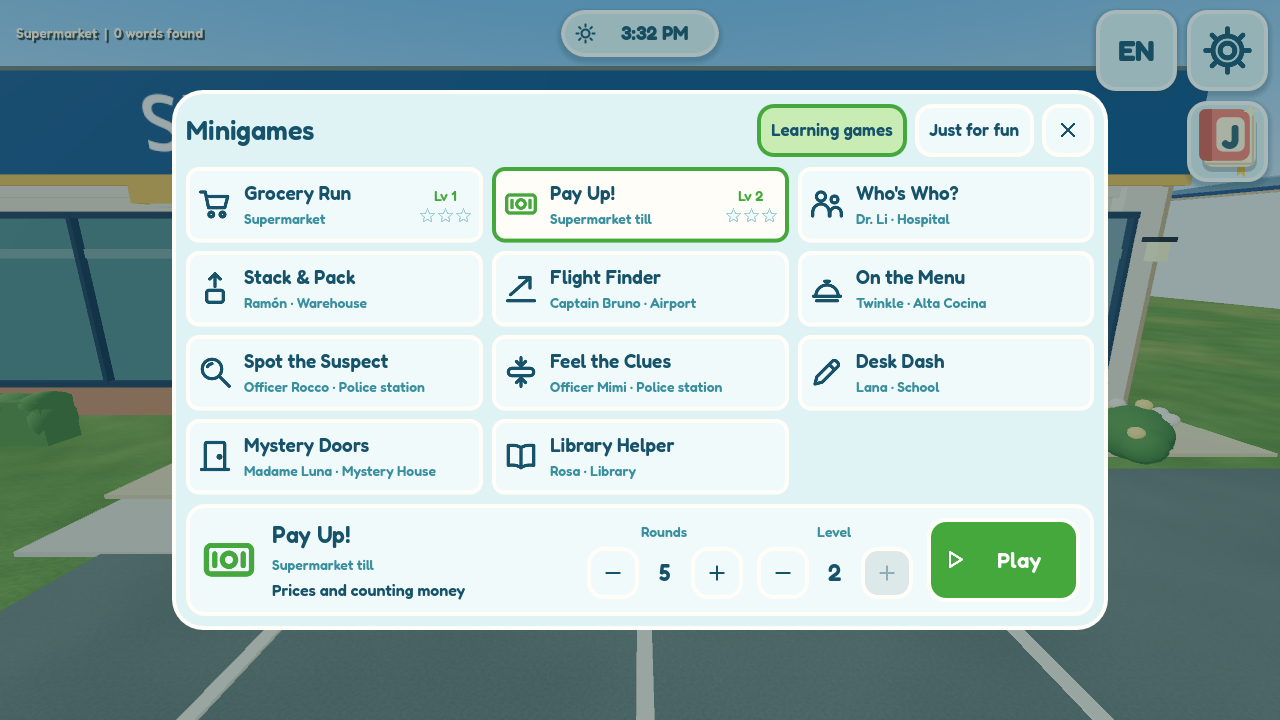
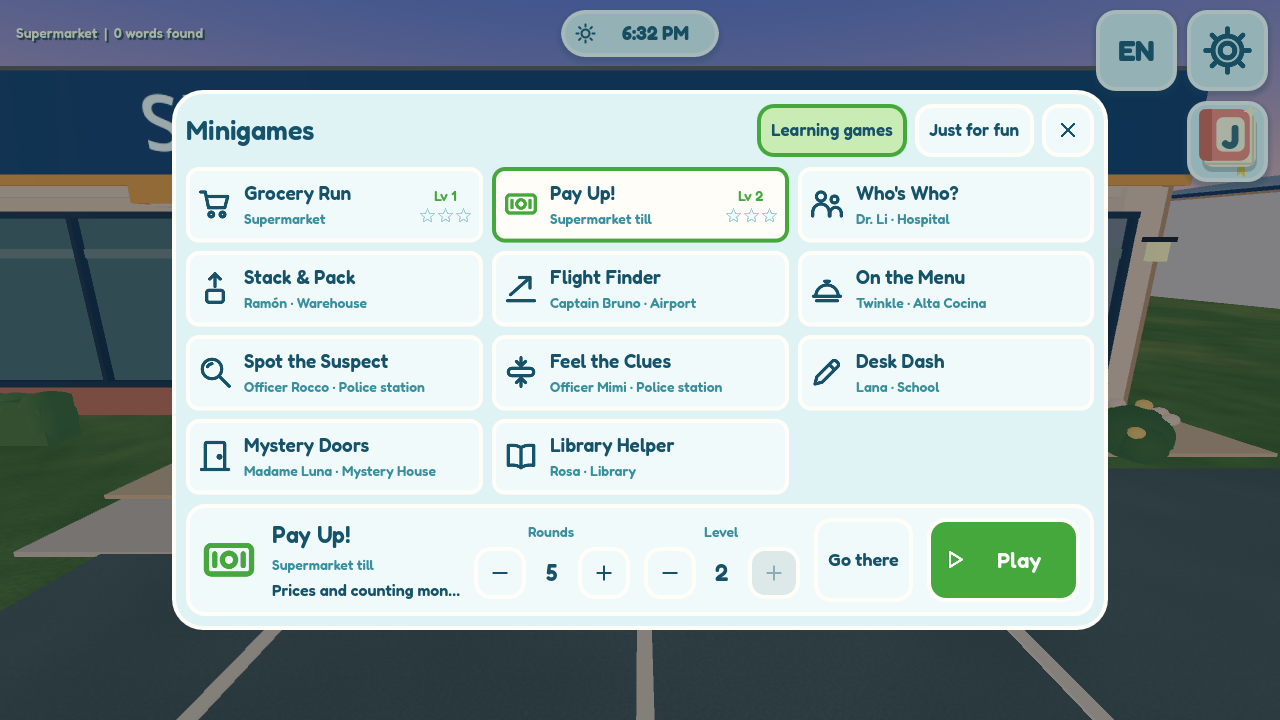
Minigame progression: verification after merging main; picker view with Go there

diff --git a/BonAdventure/docs/guides/FINAL_VERIFICATION.md b/BonAdventure/docs/guides/FINAL_VERIFICATION.md
@@ -23,6 +23,9 @@ PASS; `activity_lifecycle` PASS after updating its summary comparison for the th
 ("shop bubble: … translated": the check presses `toggle_translation()`, which no longer records a
 translation since the EN button took that over, `shop_order_panel.gd` `_on_peek()`). One windowed
 run at 1280 × 720 rendered [picker, greeting badge and star card](../evidence/minigame-progression-20261118/).
+After merging `main` (e23ecff, wayfinding: the picker's Go there button) `minigame_progression`,
+`minigame_launcher`, `activity_lifecycle`, `runtime_resources` PASS, and the picker re-rendered
+(Rounds, Level, Go there and Play fit at 1280 × 720).
 The full suite, a web export and a phone were not run. `tools/build_cjk_font.py --check` could not
 run (no fontTools); the new Chinese text uses only characters already in the data at b4af467.
 
